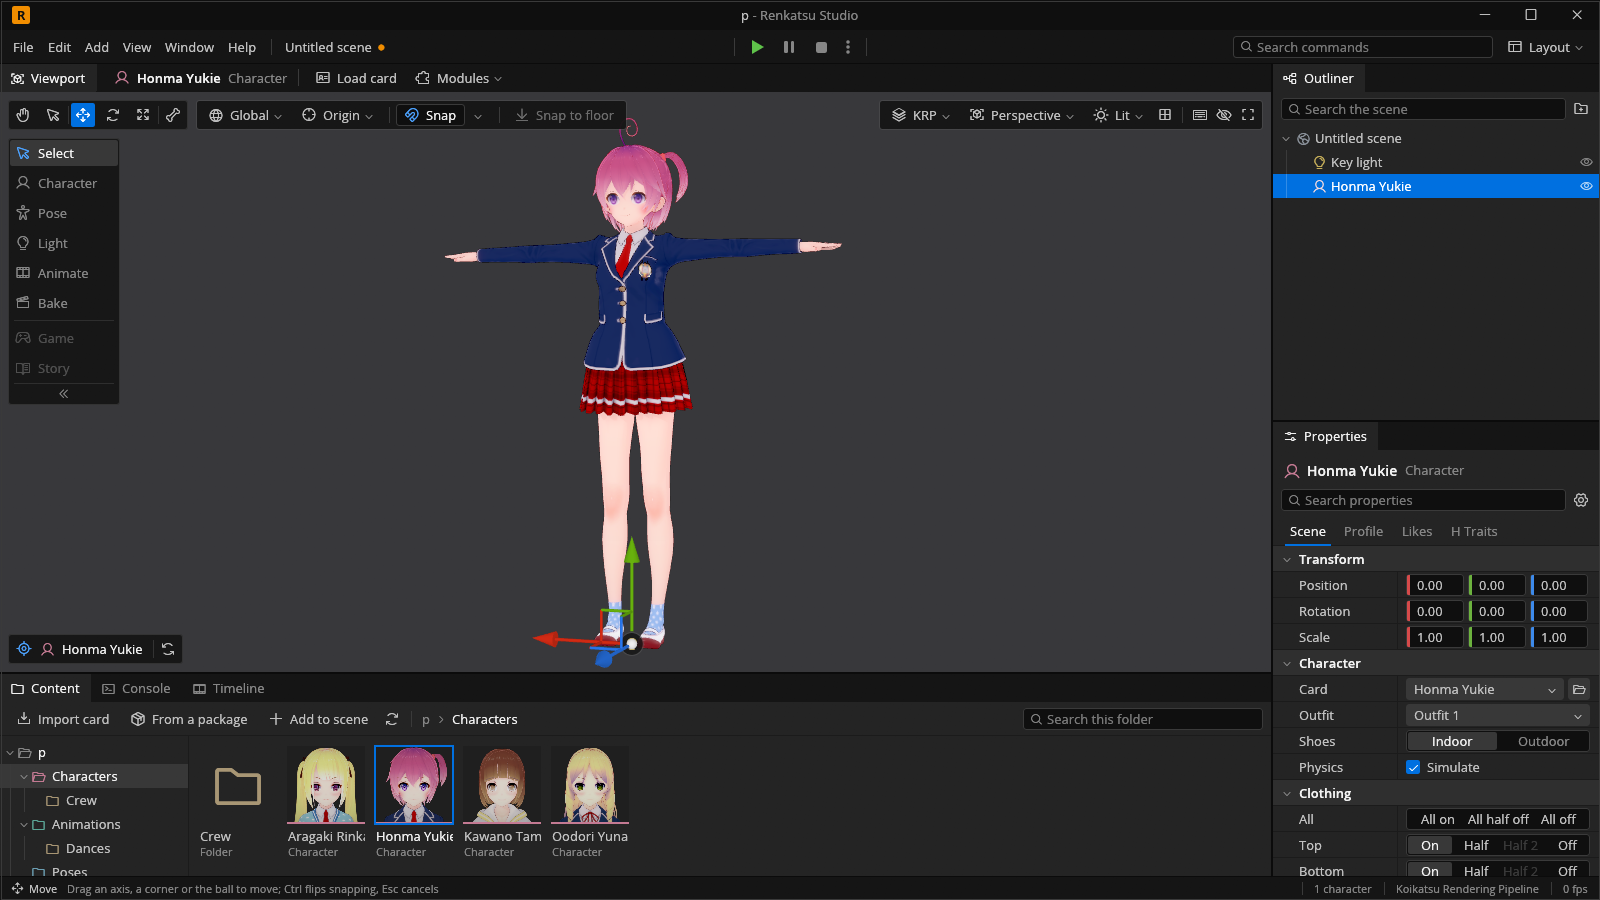
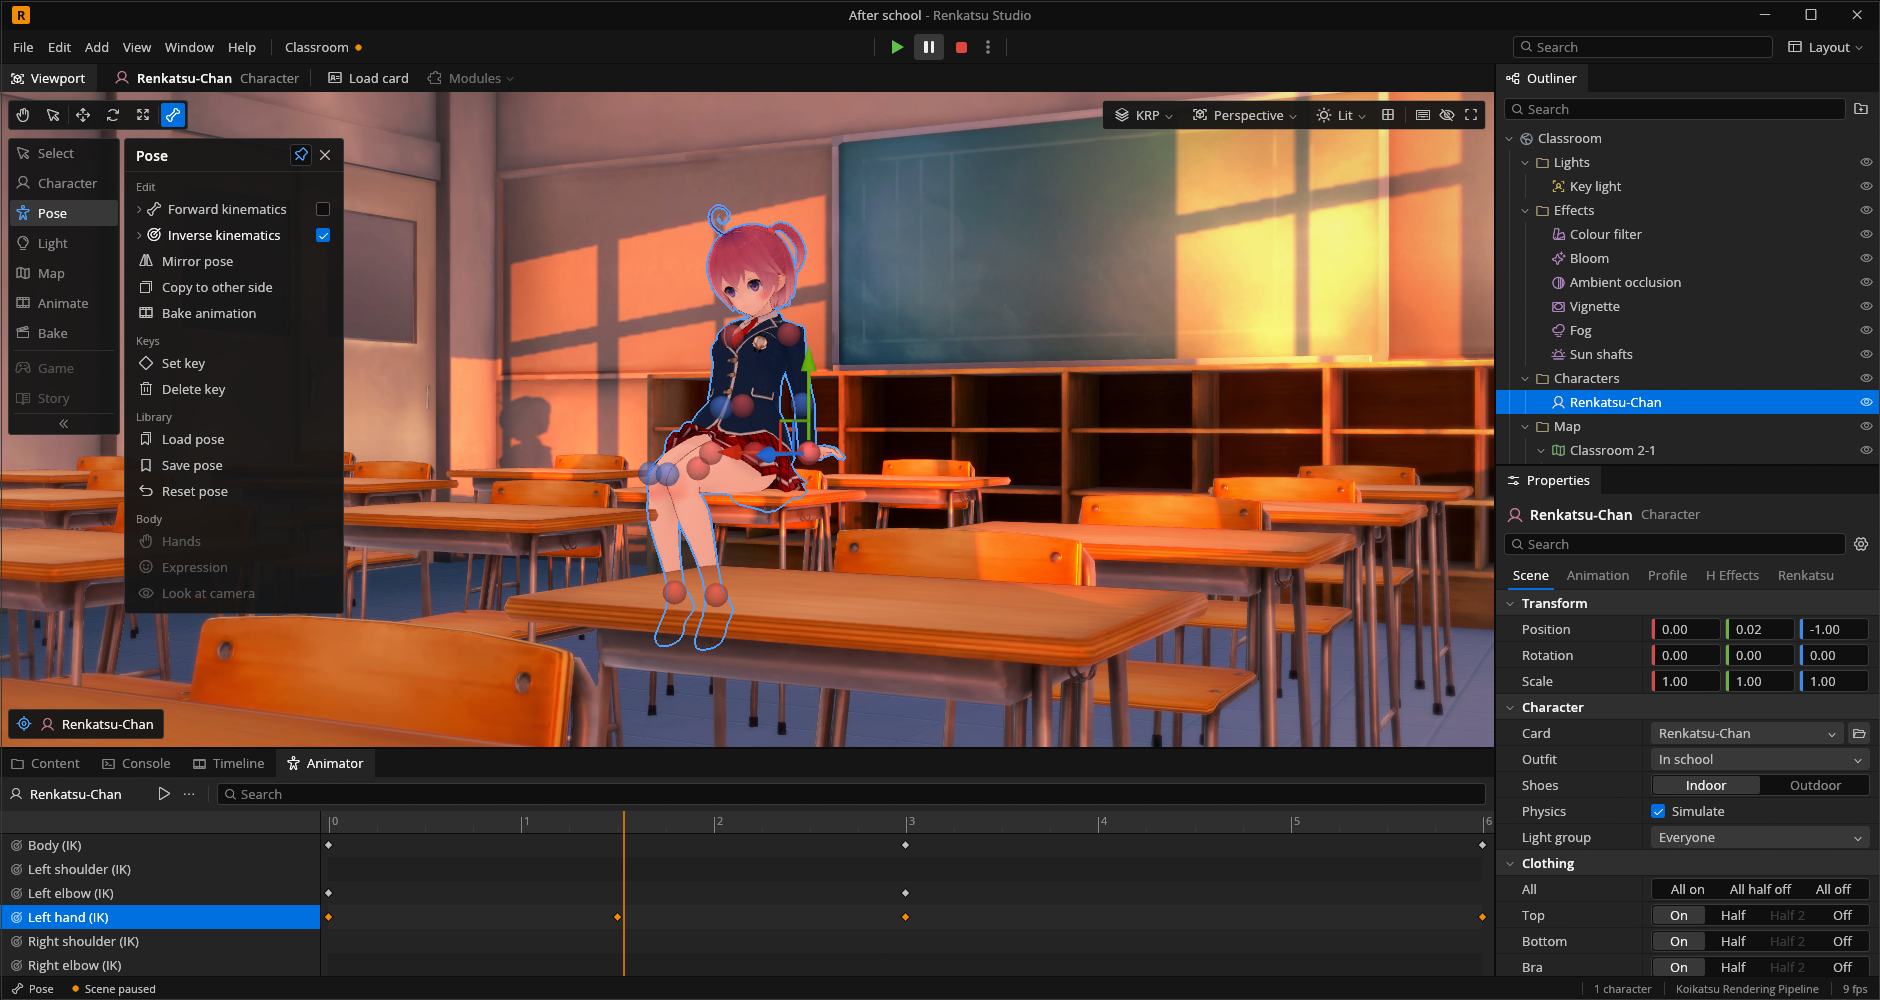
New README pictures: the classroom at sunset and posing in the studio (#139)
* The veil stays under its window when a window opens again

The dimmed veil behind the importers, the Maps library and Packages
shared the front order with its window. Closing a window with a click on
the veil brought the veil to the front of that order, and the next time
the window opened the veil could stay over it, dimming the whole app and
taking every click. The veil is now a layer of the middle order, below
the windows and their popups, so no click lifts it over them.

* Lamps light characters, with a soft toon edge, and the map

Point, spot and directional lights set to light characters add their
light on top of a character's own, for the characters their light
groups let in: Unity's falloff over the light's range, a spot's cone,
and a soft toon edge between the lit side and the shadow. Up to eight
lamps per character. Lights set to light the map light it with its
Standard lighting, in the map's own space, beside its sun. Scenes
without lamps draw as before, pixel for pixel.

* One depth picture for map and characters, and CharaStudio's GlobalFog

The map's solid and cut-out surfaces write the camera depth the
characters write, so ambient occlusion and the shadow mask see the map
too, as in the game (one camera, one depth). The Studio's GlobalFog is
ported from its height-fog program (Hidden/GlobalFog, level1's stored
values: height fog only, density 0.001, radial distance), with the
distance and both variants, as rk_render::effects::Fog; off unless asked
[…]

diff --git a/README.md b/README.md
@@ -20,7 +20,7 @@ download. If you have the game, Renkatsu reads your cards and mods from it
 too, and never changes it.
 
 <p align="center">
-  <img src="docs/images/studio.png" alt="Renkatsu Studio with a character in the viewport and the project's characters below" width="900">
+  <img src="docs/images/classroom.png" alt="Renkatsu-Chan sitting on a desk in a classroom at sunset" width="900">
 </p>
 
 Get the installer from the
@@ -68,6 +68,10 @@ run it, and start a project.
 - Set keys on bones and IK targets and play them on the timeline, with
   smooth, even or held easing. Play one character's animation on its
   own while you work on it, and save it to give to another character.
+
+<p align="center">
+  <img src="docs/images/studio.png" alt="Posing with IK in the studio: the Pose tools, IK handles on the character, her keys in the Animator, the Outliner and Properties" width="900">
+</p>
 
 ### Build the scene
 
